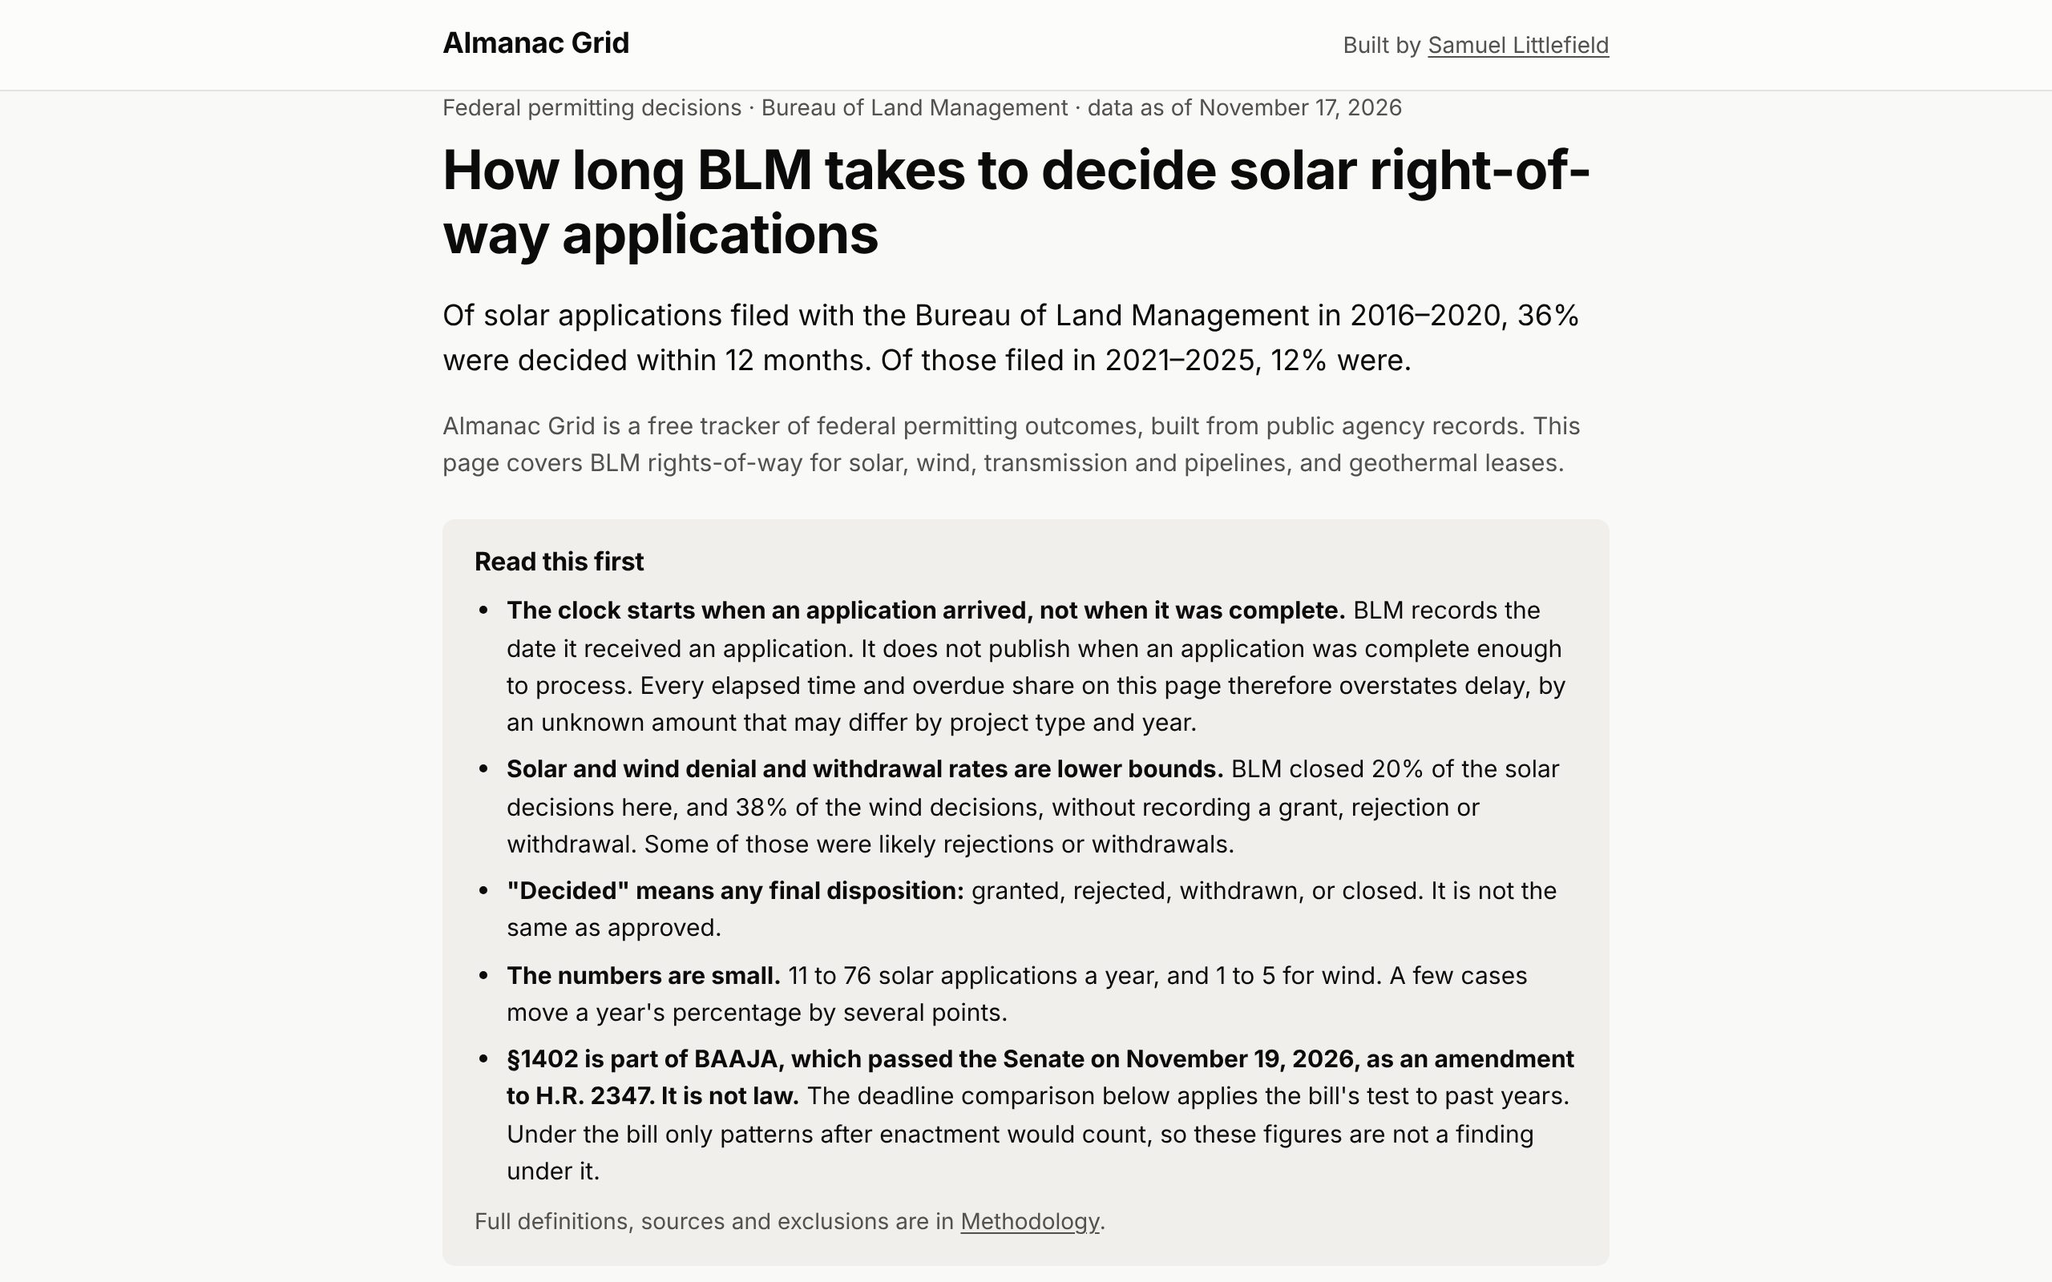
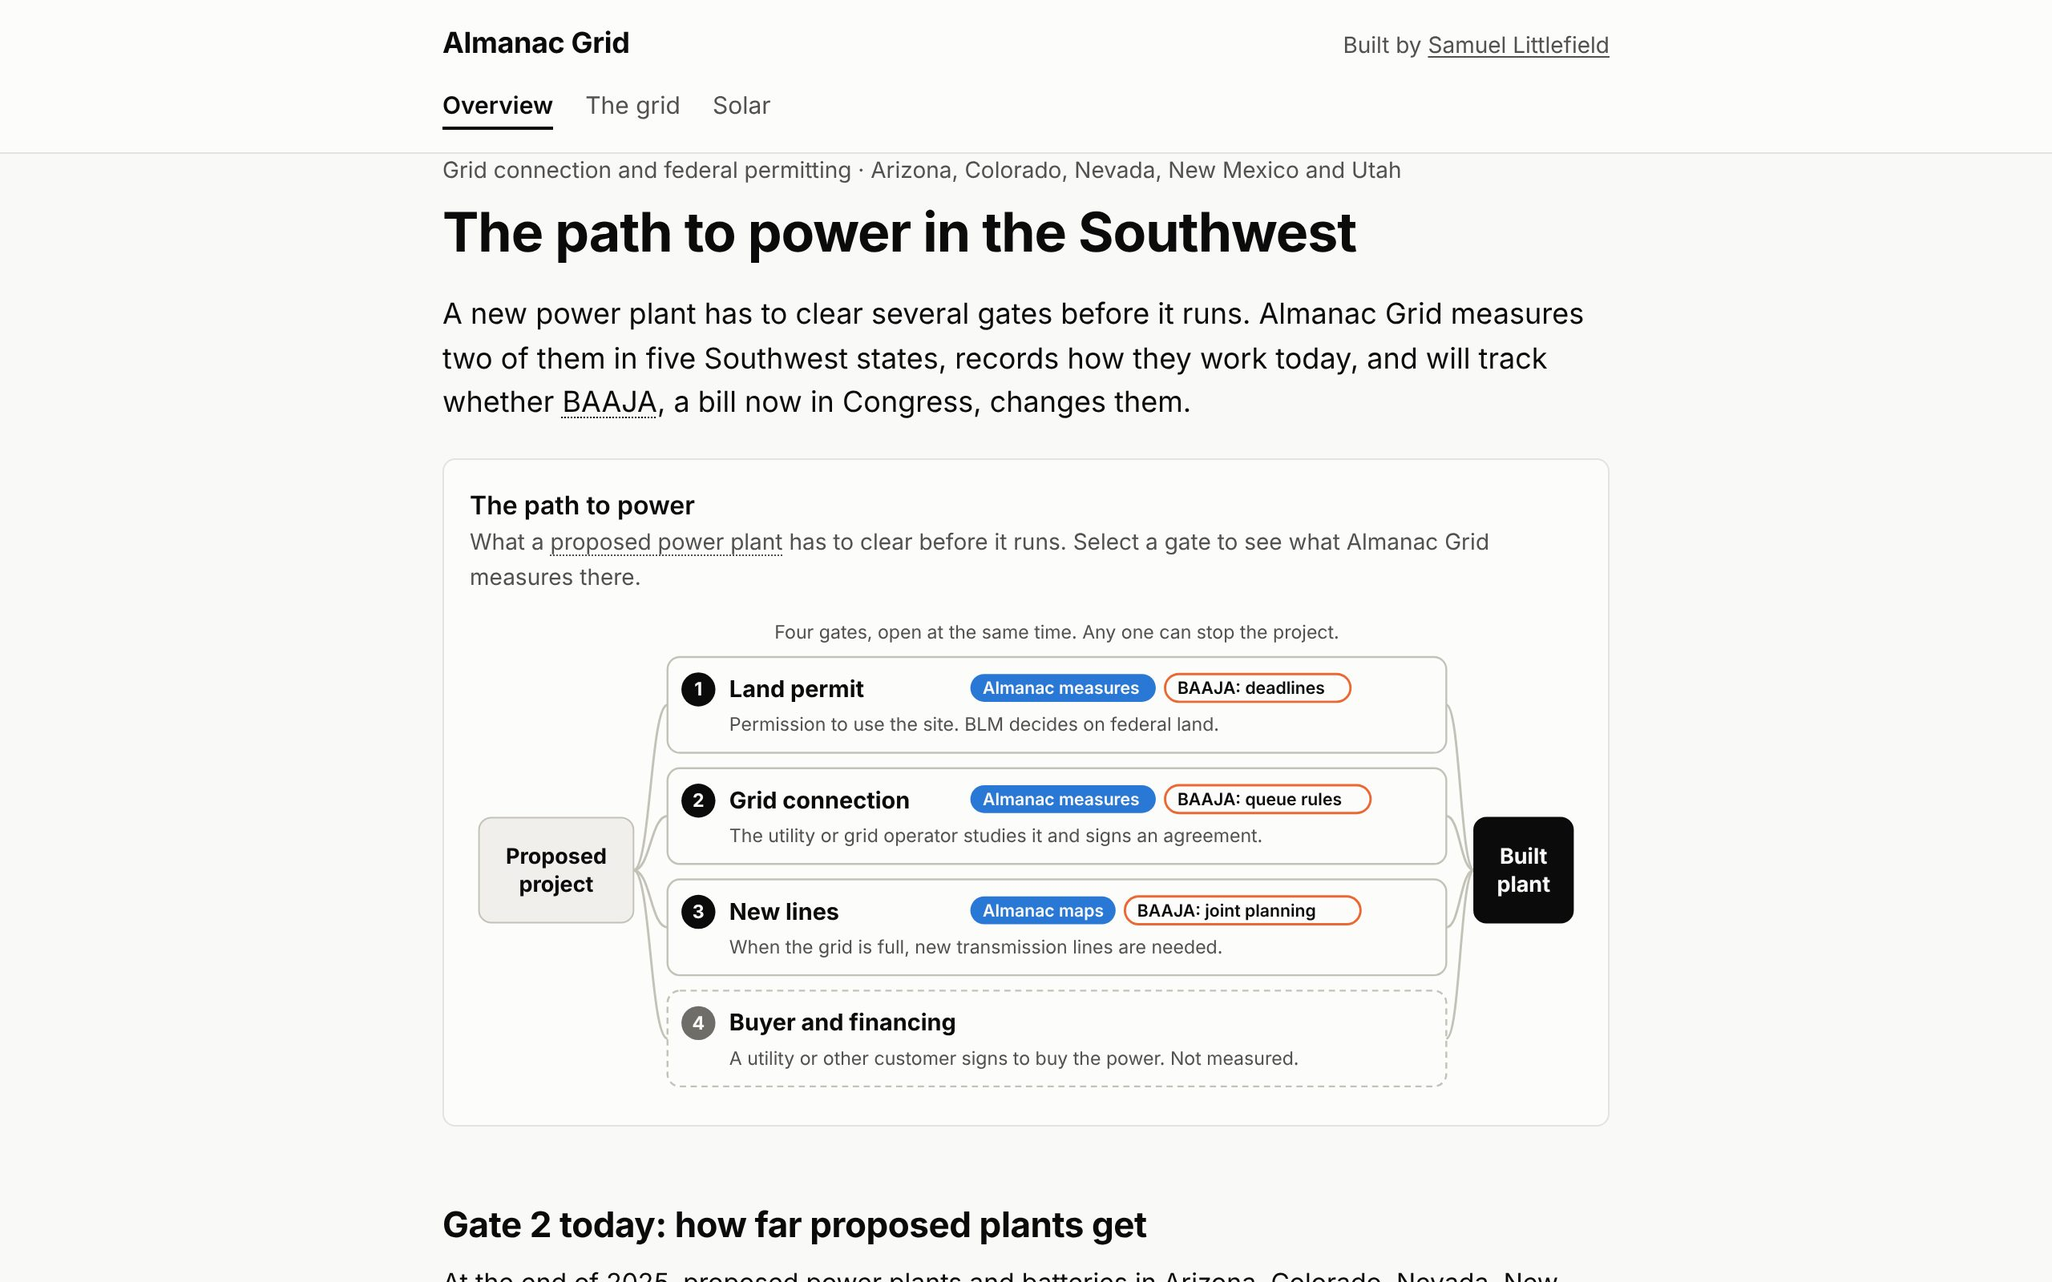
Fill in case studies and catch up with Almanac Grid and PG&E
Almanac Grid: the four-gates framing, grid-connection findings, decisions
that shaped it (from its README), current BAAJA status, new screenshot.
PG&E: the in-browser engine and bring-your-own-file. Adds a What I learned
section to every case study and replaces Oracle's six-steps placeholder.
Tables can now be left-aligned for text columns.

Claude-Session: https://claude.ai/code/session_019mDYrJc4LVRFeqHru4q2my

Changed region(s): [[0.2188, 0.0625, 0.7812, 0.9688]]

diff --git a/lib/projects.ts b/lib/projects.ts
@@ -14,6 +14,7 @@ export type Block =
   | {
       type: 'table'
       caption: string
+      align?: 'left'
       head: string[]
       rows: { cells: string[]; emphasis?: number[] }[]
     }
@@ -41,17 +42,6 @@ export type Project = {
   sections: Section[]
 }
 
-const WHAT_I_LEARNED: Section = {
-  id: 'learned',
-  title: 'What I learned',
-  blocks: [
-    {
-      type: 'placeholder',
-      text: '[IN YOUR WORDS: two or three things you learned building it, about the data, the domain, or how you made product calls. Then one line on what you would build next.]',
-    },
-  ],
-}
-
 export const projects: Project[] = [
   {
     slug: 'almanac-grid',
@@ -60,21 +50,21 @@ export const projects: Project[] = [
     field: 'Energy',
     year: '2026',
     summary:
-      'A free tracker of federal permitting outcomes, built from public agency records. It starts with how long the Bureau of Land Management takes to decide on solar, wind and transmission applications.',
-    deck: 'How long does the federal government take to decide on energy projects on public land? A free tracker built from Bureau of Land Management case records.',
+      'A free tracker of the path a proposed power plant takes in five Southwest states: how long federal land permits take, and how far grid-connection requests get. Built to measure what BAAJA, the permitting bill, changes.',
+    deck: 'What stands between a proposed power plant and a built one? A public record of two of those gates, land permits and grid connections, in five Southwest states.',
     stack: 'Python · FastAPI · PostgreSQL',
     meta: [
       { label: 'Role', value: 'Solo project' },
       { label: 'Year', value: '2026' },
-      { label: 'Source', value: 'BLM case records' },
+      { label: 'Sources', value: 'BLM case records, LBNL queue data' },
       { label: 'Built with', value: 'Python, FastAPI, PostgreSQL' },
       { label: 'Status', value: 'Live ↗', href: 'https://almanac.samuellittlefield.com/' },
     ],
     links: [{ label: 'Visit the site', href: 'https://almanac.samuellittlefield.com/' }],
     image: {
       src: '/work/almanac-grid.jpg',
-      alt: 'Almanac Grid page on how long BLM takes to decide solar right-of-way applications',
-      caption: 'The BLM solar page, data as of November 17, 2026.',
+      alt: 'Almanac Grid overview page showing the four gates a proposed power plant has to clear',
+      caption: 'The overview page: the path to power, gate by gate.',
     },
     sections: [
       {
@@ -87,7 +77,58 @@ export const projects: Project[] = [
           },
           { type: 'p', text: 'Developers and litigators look like its first real readers.' },
         ],
-        note: 'Covers BLM rights-of-way for solar, wind, transmission and pipelines, plus geothermal leases.',
+        note: 'Covers Arizona, Colorado, Nevada, New Mexico and Utah.',
+      },
+      {
+        id: 'gates',
+        title: 'Four gates',
+        blocks: [
+          {
+            type: 'p',
+            text: 'A proposed power plant has to clear four gates at the same time before it runs, and it can fail at any of them. Almanac Grid measures the first two and maps who plans the third, so that whatever BAAJA changes can be measured against how things work today.',
+          },
+          {
+            type: 'table',
+            align: 'left',
+            caption: 'Table 1. The path to power, and the BAAJA sections that would change each gate.',
+            head: ['Gate', 'Almanac Grid', 'BAAJA'],
+            rows: [
+              { cells: ['1. Land permit', 'Measures BLM decisions', '§1402 deadlines'] },
+              { cells: ['2. Grid connection', 'Measures the queue', '§2106, §2110, §2111'] },
+              { cells: ['3. New lines', 'Maps the planners', '§225 joint planning'] },
+              { cells: ['4. Buyer and financing', 'Not measured', 'None'] },
+            ],
+          },
+        ],
+        note: 'The site leads with this diagram: a project moves from proposed to built only when all four gates are open.',
+      },
+      {
+        id: 'decisions',
+        title: 'Decisions that shaped it',
+        blocks: [
+          {
+            type: 'list',
+            items: [
+              {
+                lead: 'The bill is framing, not the foundation.',
+                text: "BAAJA isn't law, so the dataset has to be useful on its own. The bill is the sharpest reason someone would want it.",
+              },
+              {
+                lead: 'Check the data exists before scoping.',
+                text: 'FERC and BLM records are reachable. Army Corps wetlands permits are mostly behind FOIA, so they wait until there is demand worth that wait.',
+              },
+              {
+                lead: "A data model that isn't shaped like one agency.",
+                text: "Each project can carry many agency actions, so a pipeline's FERC certificate and its BLM right-of-way attach to the same project. That is what makes total time-to-permit across agencies measurable.",
+              },
+              {
+                lead: 'Stay out of crowded markets.',
+                text: 'Geospatial siting tools already have incumbents, so they are out of scope.',
+              },
+            ],
+          },
+        ],
+        note: 'Every number on the site traces back to a frozen, checksummed snapshot of the data.',
       },
       {
         id: 'records',
@@ -95,7 +136,7 @@ export const projects: Project[] = [
         blocks: [
           {
             type: 'p',
-            text: 'Public agency data has gaps, and an honest tracker says so up front. The site opens with four caveats before it shows a single chart.',
+            text: 'Public agency data has gaps, and an honest tracker says so up front. The Solar page opens with four caveats before it shows a single chart.',
           },
           {
             type: 'list',
@@ -151,13 +192,17 @@ export const projects: Project[] = [
           },
           {
             type: 'table',
-            caption: 'Table 1. Status of solar applications 36 months after filing.',
+            caption: 'Table 2. Status of solar applications 36 months after filing.',
             head: ['Filed', 'Granted', 'Rejected', 'Withdrawn', 'Still pending'],
             rows: [
               { cells: ['2016–19', '10%', '21%', '30%', '37%'] },
               { cells: ['2020–22', '9%', '3%', '15%', '63%'], emphasis: [2, 4] },
               { cells: ['2023', '6%', '10%', '18%', '66%'] },
             ],
+          },
+          {
+            type: 'p',
+            text: 'The grid-connection gate is narrower still. At the end of 2025, the five states had 918 active grid-connection requests for 260 GW, and 21% of that capacity had a signed interconnection agreement. Of the capacity requested from 2000 to 2020, only 8.3% was built by the end of 2025, against 12.8% nationally.',
           },
         ],
         note: 'On November 17, 2026, 92% of open solar applications were more than 60 days past deadline, against a 67% baseline for the previous five years.',
@@ -168,12 +213,25 @@ export const projects: Project[] = [
         blocks: [
           {
             type: 'p',
-            text: "Section 1402 of BAAJA, which passed the Senate on November 19, 2026, would hold agencies to permitting deadlines by comparing each year's overdue share against earlier years. It is not law. Almanac Grid applies the bill's test to past years so readers can see where BLM would stand, and says plainly that these figures are not a finding under it.",
+            text: "BAAJA passed the Senate on November 19, 2026, 62 to 33. The House has not voted on it, and it is not law. Section 1402 would set deadlines for federal permit decisions and let developers sue over a pattern of missed deadlines. Almanac Grid applies that test to BLM's past solar decisions, and says plainly that these figures are not a finding under the bill.",
           },
         ],
-        note: 'Passed as an amendment to H.R. 2347.',
+        note: 'Passed as Senate Amendment 6883 to H.R. 2347. Status checked November 27, 2026.',
       },
-      WHAT_I_LEARNED,
+      {
+        id: 'learned',
+        title: 'What I learned',
+        blocks: [
+          {
+            type: 'p',
+            text: "What I'm still working out is how the pace of past decisions will shape the pace of future ones. Solar, the case I analyzed most closely, shows the problem: BLM isn't turning more projects down, it's leaving them undecided. For solar applications filed in 2020–22, the share rejected within three years fell to 3% from 21%, while the share still pending rose to 63% from 37%.",
+          },
+          {
+            type: 'p',
+            text: 'BAAJA’s deadlines are meant to shrink that purgatory, and most of their effect will likely show up in court, in how projects get litigated. How much the new rules actually change outcomes is still an open question, and answering it is what Almanac Grid is built for.',
+          },
+        ],
+      },
     ],
   },
   {
@@ -183,14 +241,14 @@ export const projects: Project[] = [
     field: 'Energy',
     year: '2026',
     summary:
-      "Prices one household's hourly usage under four PG&E residential plans, splits delivery from community choice generation charges, and checks the model against 20 real bills.",
-    deck: "What would one household's electricity actually cost on each PG&E plan? A rate model built on real hourly usage, with every rate cited.",
-    stack: 'Python · pandas · Green Button data',
+      "Prices a household's hourly usage under each PG&E residential plan, splits delivery from community choice generation charges, and checks the model against real bills. It now runs entirely in the browser, so a household's data never leaves its device.",
+    deck: "What would one household's electricity actually cost on each PG&E plan? A rate model built on real hourly usage, with every rate cited, that now runs in the browser on anyone's own file.",
+    stack: 'Python · pandas · Pyodide',
     meta: [
       { label: 'Role', value: 'Solo project' },
       { label: 'Year', value: '2026' },
       { label: 'Source', value: 'Green Button usage, PG&E and MCE tariffs' },
-      { label: 'Built with', value: 'Python, pandas' },
+      { label: 'Built with', value: 'Python, pandas, Pyodide' },
       { label: 'Status', value: 'Sample report ↗', href: 'https://pge.samuellittlefield.com/' },
     ],
     links: [{ label: 'Sample report', href: 'https://pge.samuellittlefield.com/' }],
@@ -231,8 +289,12 @@ export const projects: Project[] = [
                 text: 'Reconciles the model against 20 real bills before trusting it.',
               },
               {
-                lead: 'Share.',
-                text: 'Real usage never leaves my machine. The public report runs on a synthetic household built from NREL ResStock data.',
+                lead: 'Ask what-ifs.',
+                text: 'Balcony solar scenarios, and whether to stay with MCE or return to PG&E for generation.',
+              },
+              {
+                lead: 'Run it on your own file.',
+                text: "The same Python engine runs in a web page through Pyodide. Drop in a Green Button export and the report is computed in that browser tab. The file is never uploaded, and the public sample runs on a synthetic household built from NREL ResStock data.",
               },
             ],
           },
@@ -278,7 +340,20 @@ export const projects: Project[] = [
           },
         ],
       },
-      WHAT_I_LEARNED,
+      {
+        id: 'learned',
+        title: 'What I learned',
+        blocks: [
+          {
+            type: 'p',
+            text: 'The biggest surprise was who supplies my power. Most of the electricity I use comes from MCE, a provider that barely comes up when people complain about PG&E. I have no case against MCE. What surprised me is that a system can be built so the customer never sees who is behind most of their power.',
+          },
+          {
+            type: 'p',
+            text: "Letting other households run the same analysis came next, and it now works: the engine runs on their own file without it leaving their device. Opening it to the public and widening it across PG&E's territory are the next steps. I'm also testing a theory about balcony solar. Credits for power sent back to the grid have fallen so far that it may make more sense to offset what you use than to export a surplus. A small, cheap panel aimed at one appliance could beat rooftop solar and the loan that often comes with it.",
+          },
+        ],
+      },
     ],
   },
   {
@@ -358,7 +433,20 @@ export const projects: Project[] = [
         ],
         note: 'The model card now warns readers whenever it falls back to the 2024 baseline.',
       },
-      WHAT_I_LEARNED,
+      {
+        id: 'learned',
+        title: 'What I learned',
+        blocks: [
+          {
+            type: 'p',
+            text: 'The July bug taught me the most. My model gave Democrats a 36% chance of winning the House while prediction markets said 83%, and nothing on the page explained the gap. The model had quietly fallen back to 2024 data. The fix was technical, but the lesson was about trust: when a number can come from more than one place, the reader needs to see which one they are looking at. The same idea runs through the labels on every figure in my PG&E tool.',
+          },
+          {
+            type: 'p',
+            text: 'With the midterms over, the natural next step is to score the polling averages against the results.',
+          },
+        ],
+      },
     ],
   },
   {
@@ -443,7 +531,20 @@ export const projects: Project[] = [
           },
         ],
       },
-      WHAT_I_LEARNED,
+      {
+        id: 'learned',
+        title: 'What I learned',
+        blocks: [
+          {
+            type: 'p',
+            text: 'The hardest part wasn\'t any one feed. It was keeping more than 20 of them honest. Sources fail quietly: an API changes or a page moves, and a dashboard keeps showing yesterday\'s picture as if it were today\'s. Recording each job\'s last good run turned that hidden failure into a visible one.',
+          },
+          {
+            type: 'p',
+            text: 'Running it like a product, with a plan, acceptance criteria and test cases written before any code, is what let it keep growing without breaking. That is the same process I bring to work.',
+          },
+        ],
+      },
     ],
   },
   {
@@ -480,9 +581,17 @@ export const projects: Project[] = [
         blocks: [
           {
             type: 'p',
-            text: "Oracle is a six-step workflow built on Claude. It connects a project's shared record to Jira, Confluence and a code translation layer for engineering.",
+            text: 'Oracle is a six-step workflow built on Claude, with four working parts.',
           },
-          { type: 'placeholder', text: '[THE SIX STEPS, ONE LINE EACH.]' },
+          {
+            type: 'list',
+            items: [
+              { lead: 'Shared record.', text: 'A Claude project holds everything the PM learns about a project.' },
+              { lead: 'Collateral.', text: 'Claude drafts the documents the team has agreed on from that record.' },
+              { lead: 'Jira and Confluence.', text: 'Where that collateral lands for the rest of the team.' },
+              { lead: 'Code translation layer.', text: 'Hands the agreed spec to engineering to start development.' },
+            ],
+          },
         ],
       },
       {
@@ -502,7 +611,20 @@ export const projects: Project[] = [
           },
         ],
       },
-      WHAT_I_LEARNED,
+      {
+        id: 'learned',
+        title: 'What I learned',
+        blocks: [
+          {
+            type: 'p',
+            text: 'The hard part of bringing AI into a product team isn\'t the model. It is agreeing on what the shared record should hold, and which collateral the team trusts enough to hand straight to engineering. Building to a three-week demo deadline forced those decisions early.',
+          },
+          {
+            type: 'p',
+            text: 'The next step is the feature availability assistant: plain-language answers about the roadmap, drawn from the same Jira data.',
+          },
+        ],
+      },
     ],
   },
 ]

diff --git a/app/globals.css b/app/globals.css
@@ -157,6 +157,7 @@ a:hover { color: var(--accent); }
 .table th[scope="row"] { font-weight: 400; text-align: left; padding-left: 0; }
 .table td:last-child, .table th[scope="col"]:last-child { padding-right: 0; }
 .table tbody tr:last-child td, .table tbody tr:last-child th { border-bottom-color: var(--ink); }
+.table.left td, .table.left th[scope="col"] { text-align: left; }
 .table .em { color: var(--accent); font-weight: 600; }
 
 .next { display: flex; flex-wrap: wrap; justify-content: space-between; align-items: baseline; gap: 16px; padding: 32px 0; border-top: 1px solid var(--ink); border-bottom: 1px solid var(--ink); margin-bottom: 40px; text-decoration: none; }

diff --git a/app/page.tsx b/app/page.tsx
@@ -44,7 +44,7 @@ export default function Home() {
 
         <section id="work" className="section" aria-labelledby="lead-title">
           <p className="label" style={{ margin: '0 0 40px' }}>
-            <span className="no">No. {lead.no}</span> · Lead project · Federal permitting · {lead.year}
+            <span className="no">No. {lead.no}</span> · Lead project · Permitting and the grid · {lead.year}
           </p>
           <div className="feature">
             <div>

diff --git a/components/Blocks.tsx b/components/Blocks.tsx
@@ -52,7 +52,7 @@ export default function Blocks({ blocks }: { blocks: Block[] }) {
           case 'table':
             return (
               <div key={i} className="table-wrap">
-                <table className="table">
+                <table className={`table${b.align === 'left' ? ' left' : ''}`}>
                   <caption>{b.caption}</caption>
                   <thead>
                     <tr>
